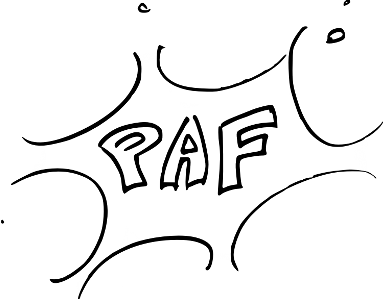
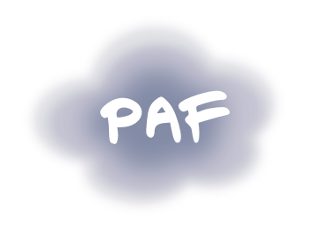
Intégration dernières images d'Arnaud

diff --git a/interfacecompetence.cpp b/interfacecompetence.cpp
@@ -127,7 +127,8 @@ InterfaceCompetence::InterfaceCompetence(QString competence,QWidget *parent) :
                 btn->retaille(60*m_ratioTaille,77*m_ratioTaille);
                 btn->QGraphicsItem::setToolTip(trUtf8("Multiples de ")+QString::number((i+1)*5));
                 QPixmap im("./data/images/carabine.png");
-                btn->setImage(im);
+                QPixmap im2 = im.scaled(60*m_ratioTaille,77*m_ratioTaille, Qt::IgnoreAspectRatio, Qt::SmoothTransformation);
+                btn->setImage(im2);
                 btn->setMTransformable(2);
                 m_scene->addItem(btn);
                 }
@@ -137,7 +138,8 @@ InterfaceCompetence::InterfaceCompetence(QString competence,QWidget *parent) :
                 btn->retaille(60*m_ratioTaille,77*m_ratioTaille);
                 btn->QGraphicsItem::setToolTip(trUtf8("Multiples de ")+QString::number((i+1)*25));
                 QPixmap im("./data/images/carabine.png");
-                btn->setImage(im);
+                QPixmap im2 = im.scaled(60*m_ratioTaille,77*m_ratioTaille, Qt::IgnoreAspectRatio, Qt::SmoothTransformation);
+                btn->setImage(im2);
                 btn->setMTransformable(2);
                 m_scene->addItem(btn);
                 }
@@ -150,17 +152,18 @@ InterfaceCompetence::InterfaceCompetence(QString competence,QWidget *parent) :
             this->setWindowTitle(trUtf8("Tables d'addition"));
             adapte(*m_decor);
             move(250,0);
-            QPoint origine(m_decor->width()/2 - 35,m_decor->height()/2 - 130);
+            QPoint origine(m_decor->width()/2 - 35,m_decor->height()/4);
             int R=m_decor->width()/2.7;
             int nb=8;
             float deformation=0.5;
             for (int i=0;i<nb;i++) {
                 boutonsPolygone* btn = new boutonsPolygone("tableA"+QString::number(i+2),i+2);
                 btn->deplace((origine.x()+R*cos((2*3.14/nb)*i)), (origine.y()+deformation*R*sin((2*3.14/nb)*i)));
-                btn->retaille(50*m_ratioTaille,42*m_ratioTaille);
+                btn->retaille(66*m_ratioTaille,65*m_ratioTaille);
                 btn->QGraphicsItem::setToolTip(trUtf8("Table +")+QString::number(i+2));
-                QPixmap im("./data/images/vomito.png");
-                btn->setImage(im);
+                QPixmap im("./data/images/nausee0"+QString::number(i%3+1)+".png");
+                QPixmap im2 = im.scaled(66*m_ratioTaille,65*m_ratioTaille, Qt::IgnoreAspectRatio, Qt::SmoothTransformation);
+                btn->setImage(im2);
                 btn->setMTransformable(2);
                 m_scene->addItem(btn);
                 }
@@ -172,29 +175,34 @@ InterfaceCompetence::InterfaceCompetence(QString competence,QWidget *parent) :
             this->setWindowTitle(trUtf8("Ordres de grandeur"));
             adapte(*m_decor);
             move(300,0);
-            QPoint origine(m_decor->width()/5,m_decor->height()/2.5);
+            QPoint origine(m_decor->width()/5.4,m_decor->height()/2.7);
                 boutonsPolygone* btnA = new boutonsPolygone("approcheA",100);
                 btnA->deplace(origine.x(), origine.y());
-                btnA->retaille(70*m_ratioTaille,60*m_ratioTaille);
+                btnA->retaille(103*m_ratioTaille,96*m_ratioTaille);
                 btnA->QGraphicsItem::setToolTip(trUtf8("... d'additions"));
-                QPixmap im("./data/images/aie.png");
-                btnA->setImage(im);
+                QPixmap im("./data/images/aie0"+ QString::number(rand()%3 +1)+".png");
+                QPixmap im2 = im.scaled(103*m_ratioTaille,96*m_ratioTaille, Qt::IgnoreAspectRatio, Qt::SmoothTransformation);
+                btnA->setImage(im2);
                 btnA->setMTransformable(2);
                 m_scene->addItem(btnA);
 
                 boutonsPolygone* btnS = new boutonsPolygone("approcheS",100);
                 btnS->deplace(origine.x()+m_decor->width()/4, origine.y()+m_decor->height()/6);
-                btnS->retaille(70*m_ratioTaille,60*m_ratioTaille);
+                btnS->retaille(103*m_ratioTaille,96*m_ratioTaille);
                 btnS->QGraphicsItem::setToolTip(trUtf8("... de soustractions"));
-                btnS->setImage(im);
+                im = QPixmap("./data/images/aie0"+ QString::number(rand()%3 +1)+".png");
+                im2 = im.scaled(103*m_ratioTaille,96*m_ratioTaille, Qt::IgnoreAspectRatio, Qt::SmoothTransformation);
+                btnS->setImage(im2);
                 btnS->setMTransformable(2);
                 m_scene->addItem(btnS);
 
                 boutonsPolygone* btnM = new boutonsPolygone("approcheM",100);
                 btnM->deplace(origine.x()+2*m_decor->width()/4, origine.y()+2*m_decor->height()/6);
-                btnM->retaille(70*m_ratioTaille,60*m_ratioTaille);
+                btnM->retaille(103*m_ratioTaille,96*m_ratioTaille);
                 btnM->QGraphicsItem::setToolTip(trUtf8("... de multiplications"));
-                btnM->setImage(im);
+                im = QPixmap("./data/images/aie0"+ QString::number(rand()%3 +1)+".png");
+                im2 = im.scaled(103*m_ratioTaille,96*m_ratioTaille, Qt::IgnoreAspectRatio, Qt::SmoothTransformation);
+                btnM->setImage(im2);
                 btnM->setMTransformable(2);
                 m_scene->addItem(btnM);
 

diff --git a/baudruche.cpp b/baudruche.cpp
@@ -49,7 +49,7 @@ baudruche::baudruche(int intMinG, int intMaxG, int intMinD, int intMaxD, int tem
     float factX= static_cast<float> (QApplication::desktop()->screenGeometry().width())/1600;
 
     qDebug()<<"Parent de baudruche: "<<parent->objectName();
-
+    m_nomImage = image;
     m_approximation=0;
     if (operation=="addition" || operation=="tableA" || operation=="") m_op = "+";
     else if (operation=="soustraction") m_op = "-";
@@ -102,7 +102,7 @@ baudruche::baudruche(int intMinG, int intMaxG, int intMinD, int intMaxD, int tem
 baudruche::baudruche(int intMaxG, int intMaxD,int tempsAccorde, QString operation,QPoint pos,QObject *parent,QString image)
 {
     float factX= static_cast<float> (QApplication::desktop()->screenGeometry().width())/1600;
-
+    m_nomImage = image;
     m_approximation=0;
         if (operation=="approcheA") m_op = "+";
         else if (operation=="approcheS") m_op = "-";
@@ -154,7 +154,7 @@ qDebug()<<" gauche : "<<valeurApprochee(g_operande,intMaxG)<<" droite : "<<valeu
 baudruche::baudruche(int valeurCible, int tempsAccorde,QString operation,QPoint pos,QObject *parent,QString image)
 {
     float factX= static_cast<float> (QApplication::desktop()->screenGeometry().width())/1600;
-
+    m_nomImage = image;
     if (operation=="complementA") m_op = "+";
     else m_op = "x";
     m_position.setX(pos.x());
@@ -210,7 +210,7 @@ baudruche::baudruche(int pts, QPoint pos,QObject *parent,QString image)
 {
     float factX= static_cast<float> (QApplication::desktop()->screenGeometry().width())/1600;
     qDebug()<<"Fact X vaut "<< factX;
-
+    m_nomImage = image;
     const int k=100;
     g_operande = 0;
     d_operande = 0;
@@ -384,7 +384,11 @@ void baudruche::detruireTps()
         QPixmap image("./data/images/will-let.png");
         QPixmap imageRetaillee = image.scaledToHeight(image.height()*factY);
         emit tempsFini(imageRetaillee);
-        changeImage("./data/images/paf.png");
+        if (m_nomImage == "auto")
+            changeImage("./data/images/boum.png");
+        else if (m_nomImage == "fantome")
+            changeImage("./data/images/pop.png");
+        else changeImage("./data/images/paf.png");
         removeFromGroup(m_texteAffiche);
         delete m_texteAffiche;
         QTimeLine* tiptip = new QTimeLine(1000,this);

diff --git a/boutonspolygone.cpp b/boutonspolygone.cpp
@@ -61,6 +61,7 @@ void boutonsPolygone::paint(QPainter *painter, const QStyleOptionGraphicsItem *o
     painter->setPen(Qt::NoPen);
     //painter->setPen(Qt::black);
     //painter->setBrush(Qt::NoBrush);
+    painter->setRenderHint(QPainter::Antialiasing, true);
     QRect rect(m_base->x(), m_base->y(), m_taille->width(), m_taille->height());
     painter->drawRect(rect.adjusted(0, 0, -1, -1));
     painter->drawPixmap(rect, *m_image);

diff --git a/baudruche.h b/baudruche.h
@@ -47,11 +47,11 @@ signals:
 
 private:
     QString m_op;
+    QString m_nomImage;
     float g_operande;
     float d_operande;
     float m_resultat;
     float m_approximation;
-
     QString m_ligne;
     QString m_affichage;
 
